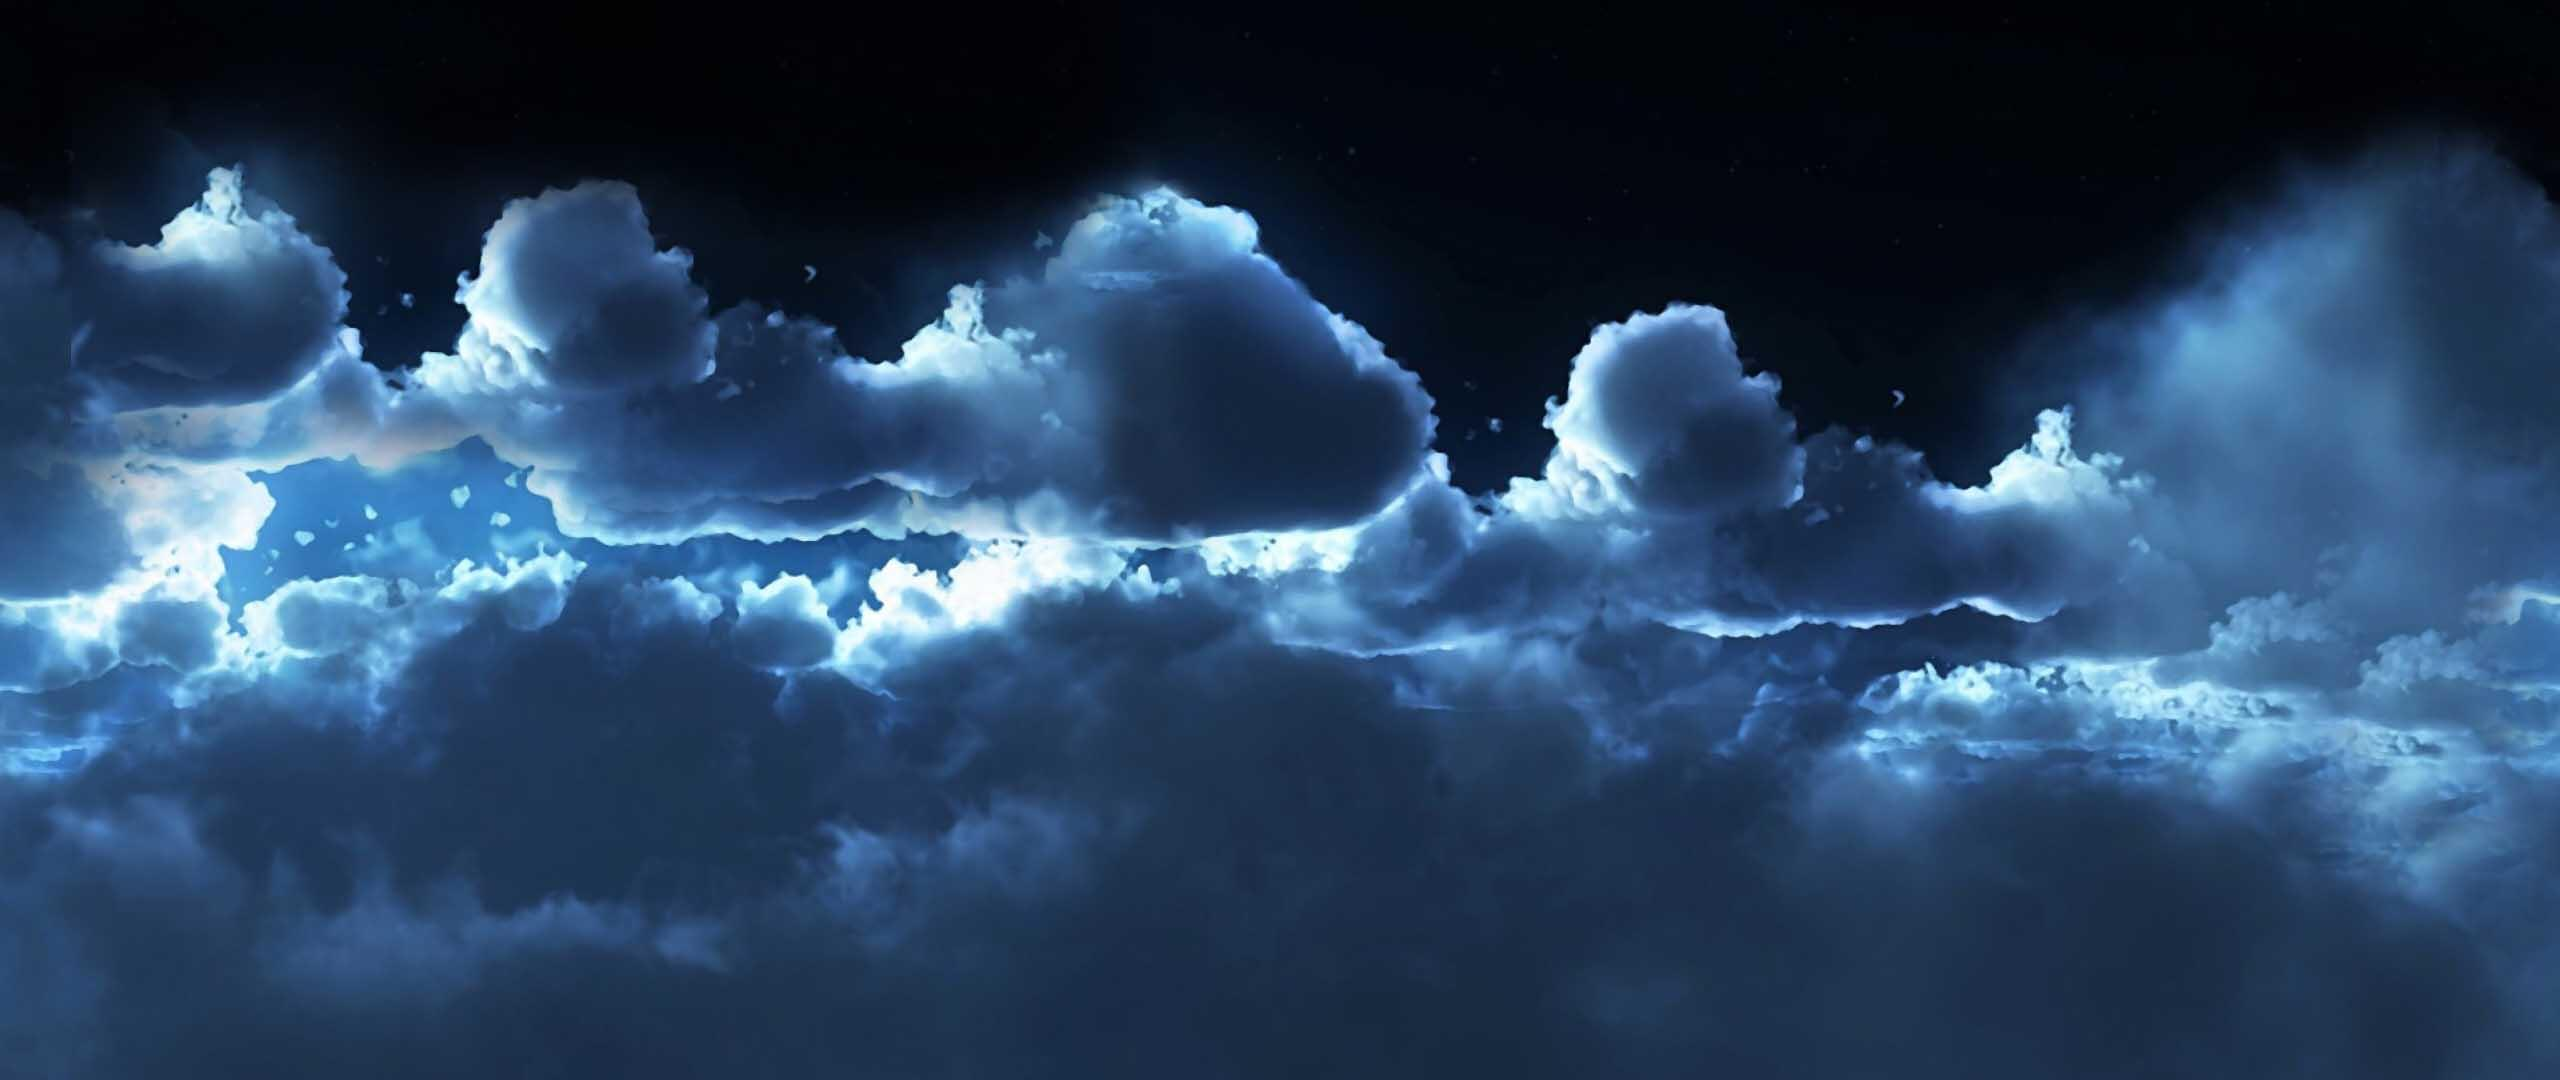
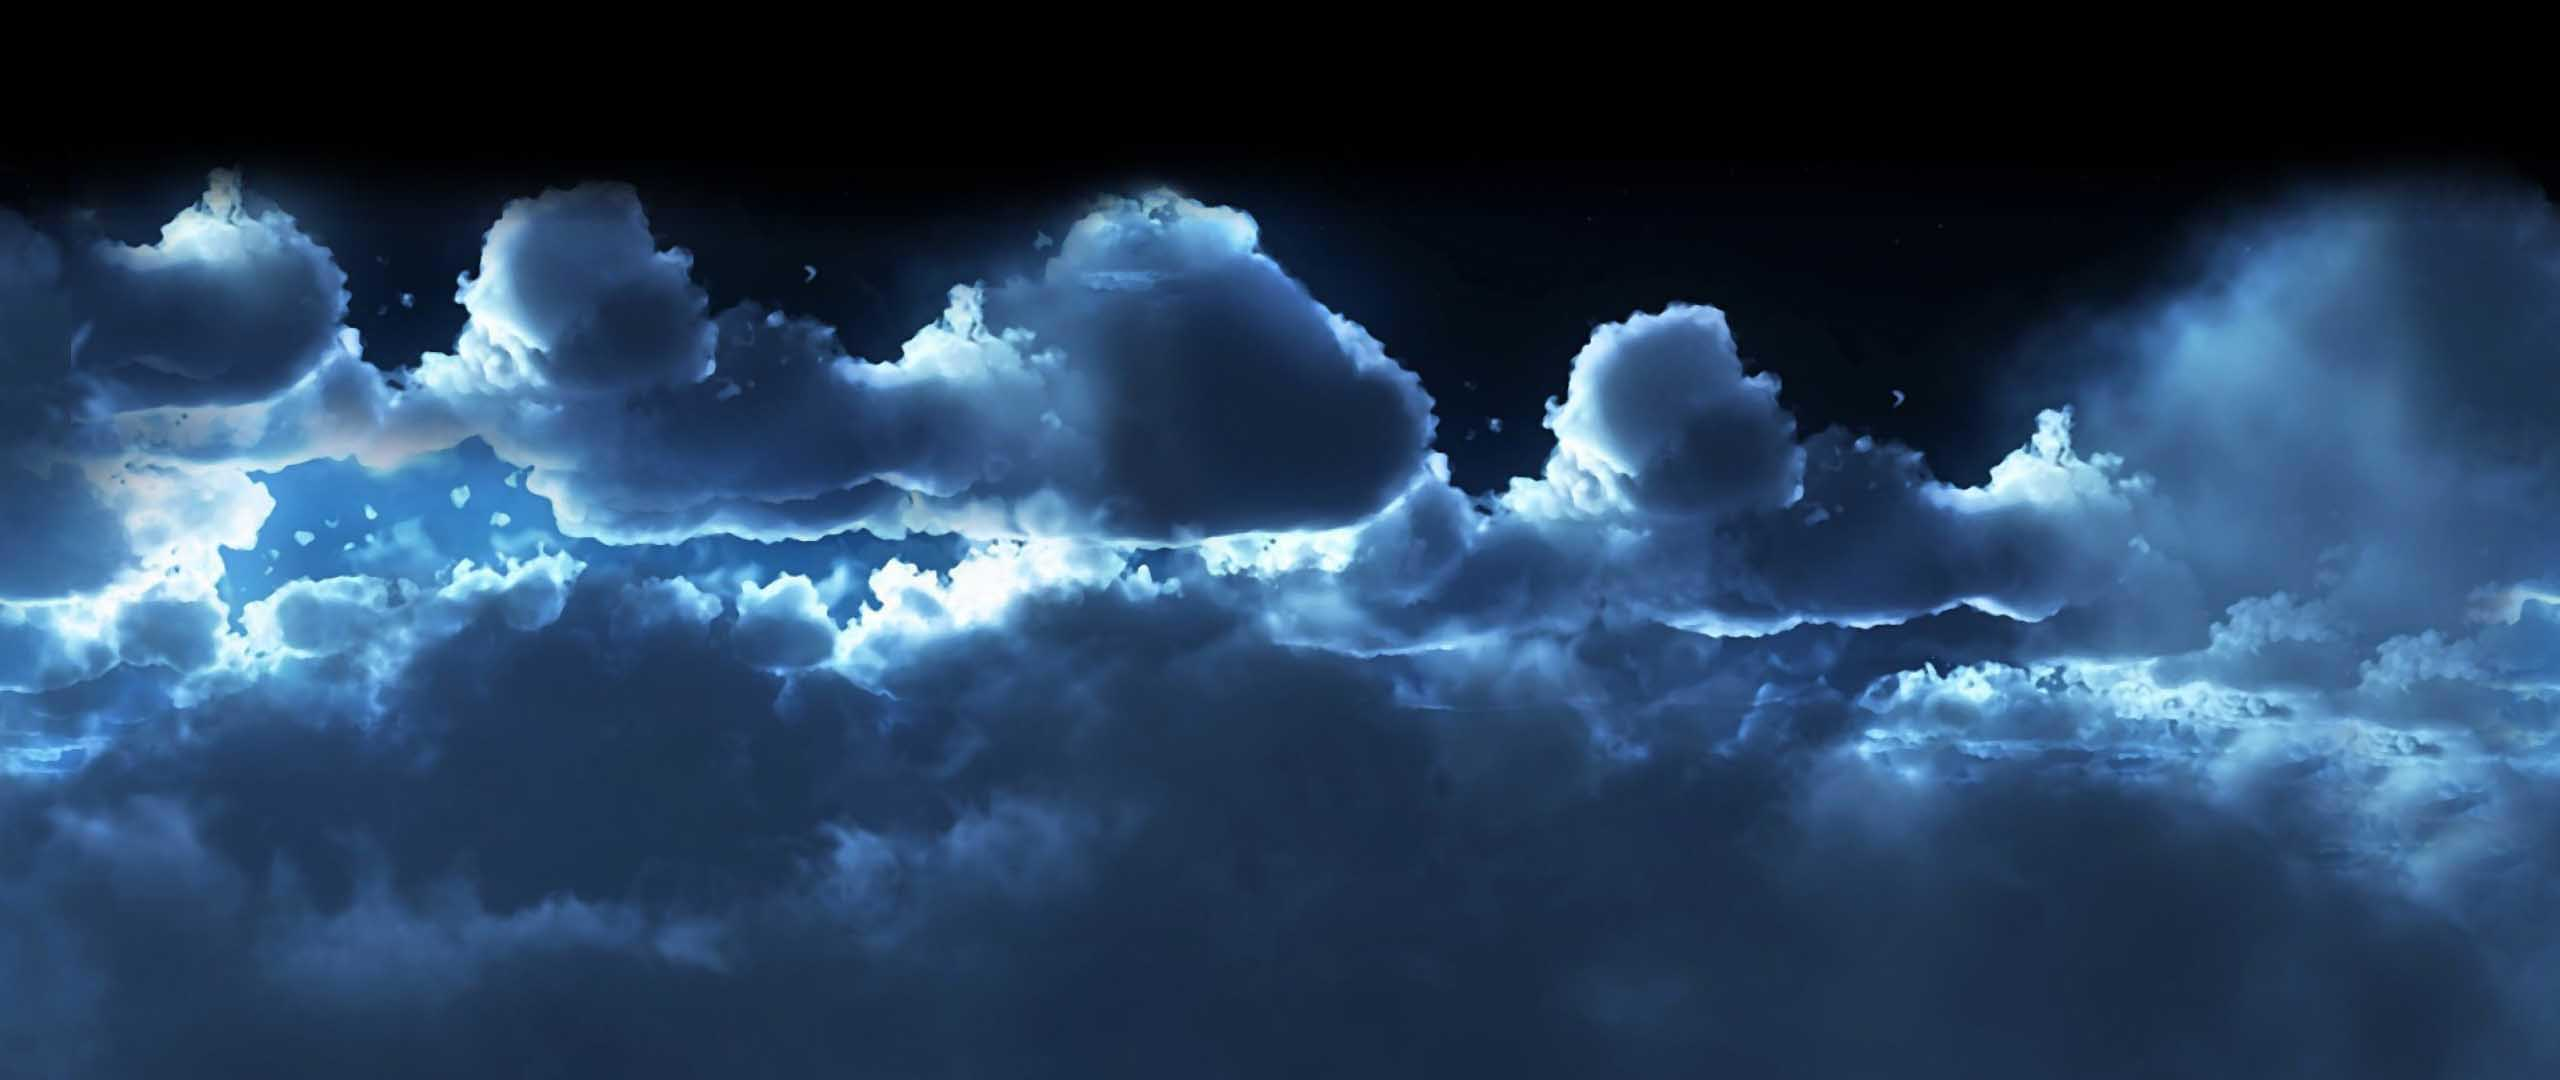
Updated styling and font-family

diff --git a/public/css/index.css b/public/css/index.css
@@ -1,7 +1,5 @@
-@media (min-width: 768px) {
-    #login-form {
-        margin-left: 25%;
-    }
+body {
+    background-color: black;
 }
 
 #background {
@@ -29,9 +27,26 @@
 
 #hill-night {
     z-index: -1;
-
 }
 
 #clouds-night {
     z-index: -2;
+}
+
+@media screen and (orientation:portrait) {
+    #hill-night {
+        z-index: -1;
+        bottom: 0px;
+    }
+
+    #clouds-night {
+        z-index: -2;
+        bottom: 50px;
+    }
+}
+
+@media (min-width: 768px) {
+    #login-form {
+        margin-left: 25%;
+    }
 }

diff --git a/public/css/core.css b/public/css/core.css
@@ -12,16 +12,16 @@
 * {
     margin: 0px;
     padding: 0px;
+    font-family: 'Cuprum';
 }
 
 body {
-    background-color: #222;
+    background-color: #111;
 }
 
 main {
     color: #D8D8D8;
-    margin-top: 50px;
-    margin-left: 50px;
+    margin: 50px
 }
 
 code {
